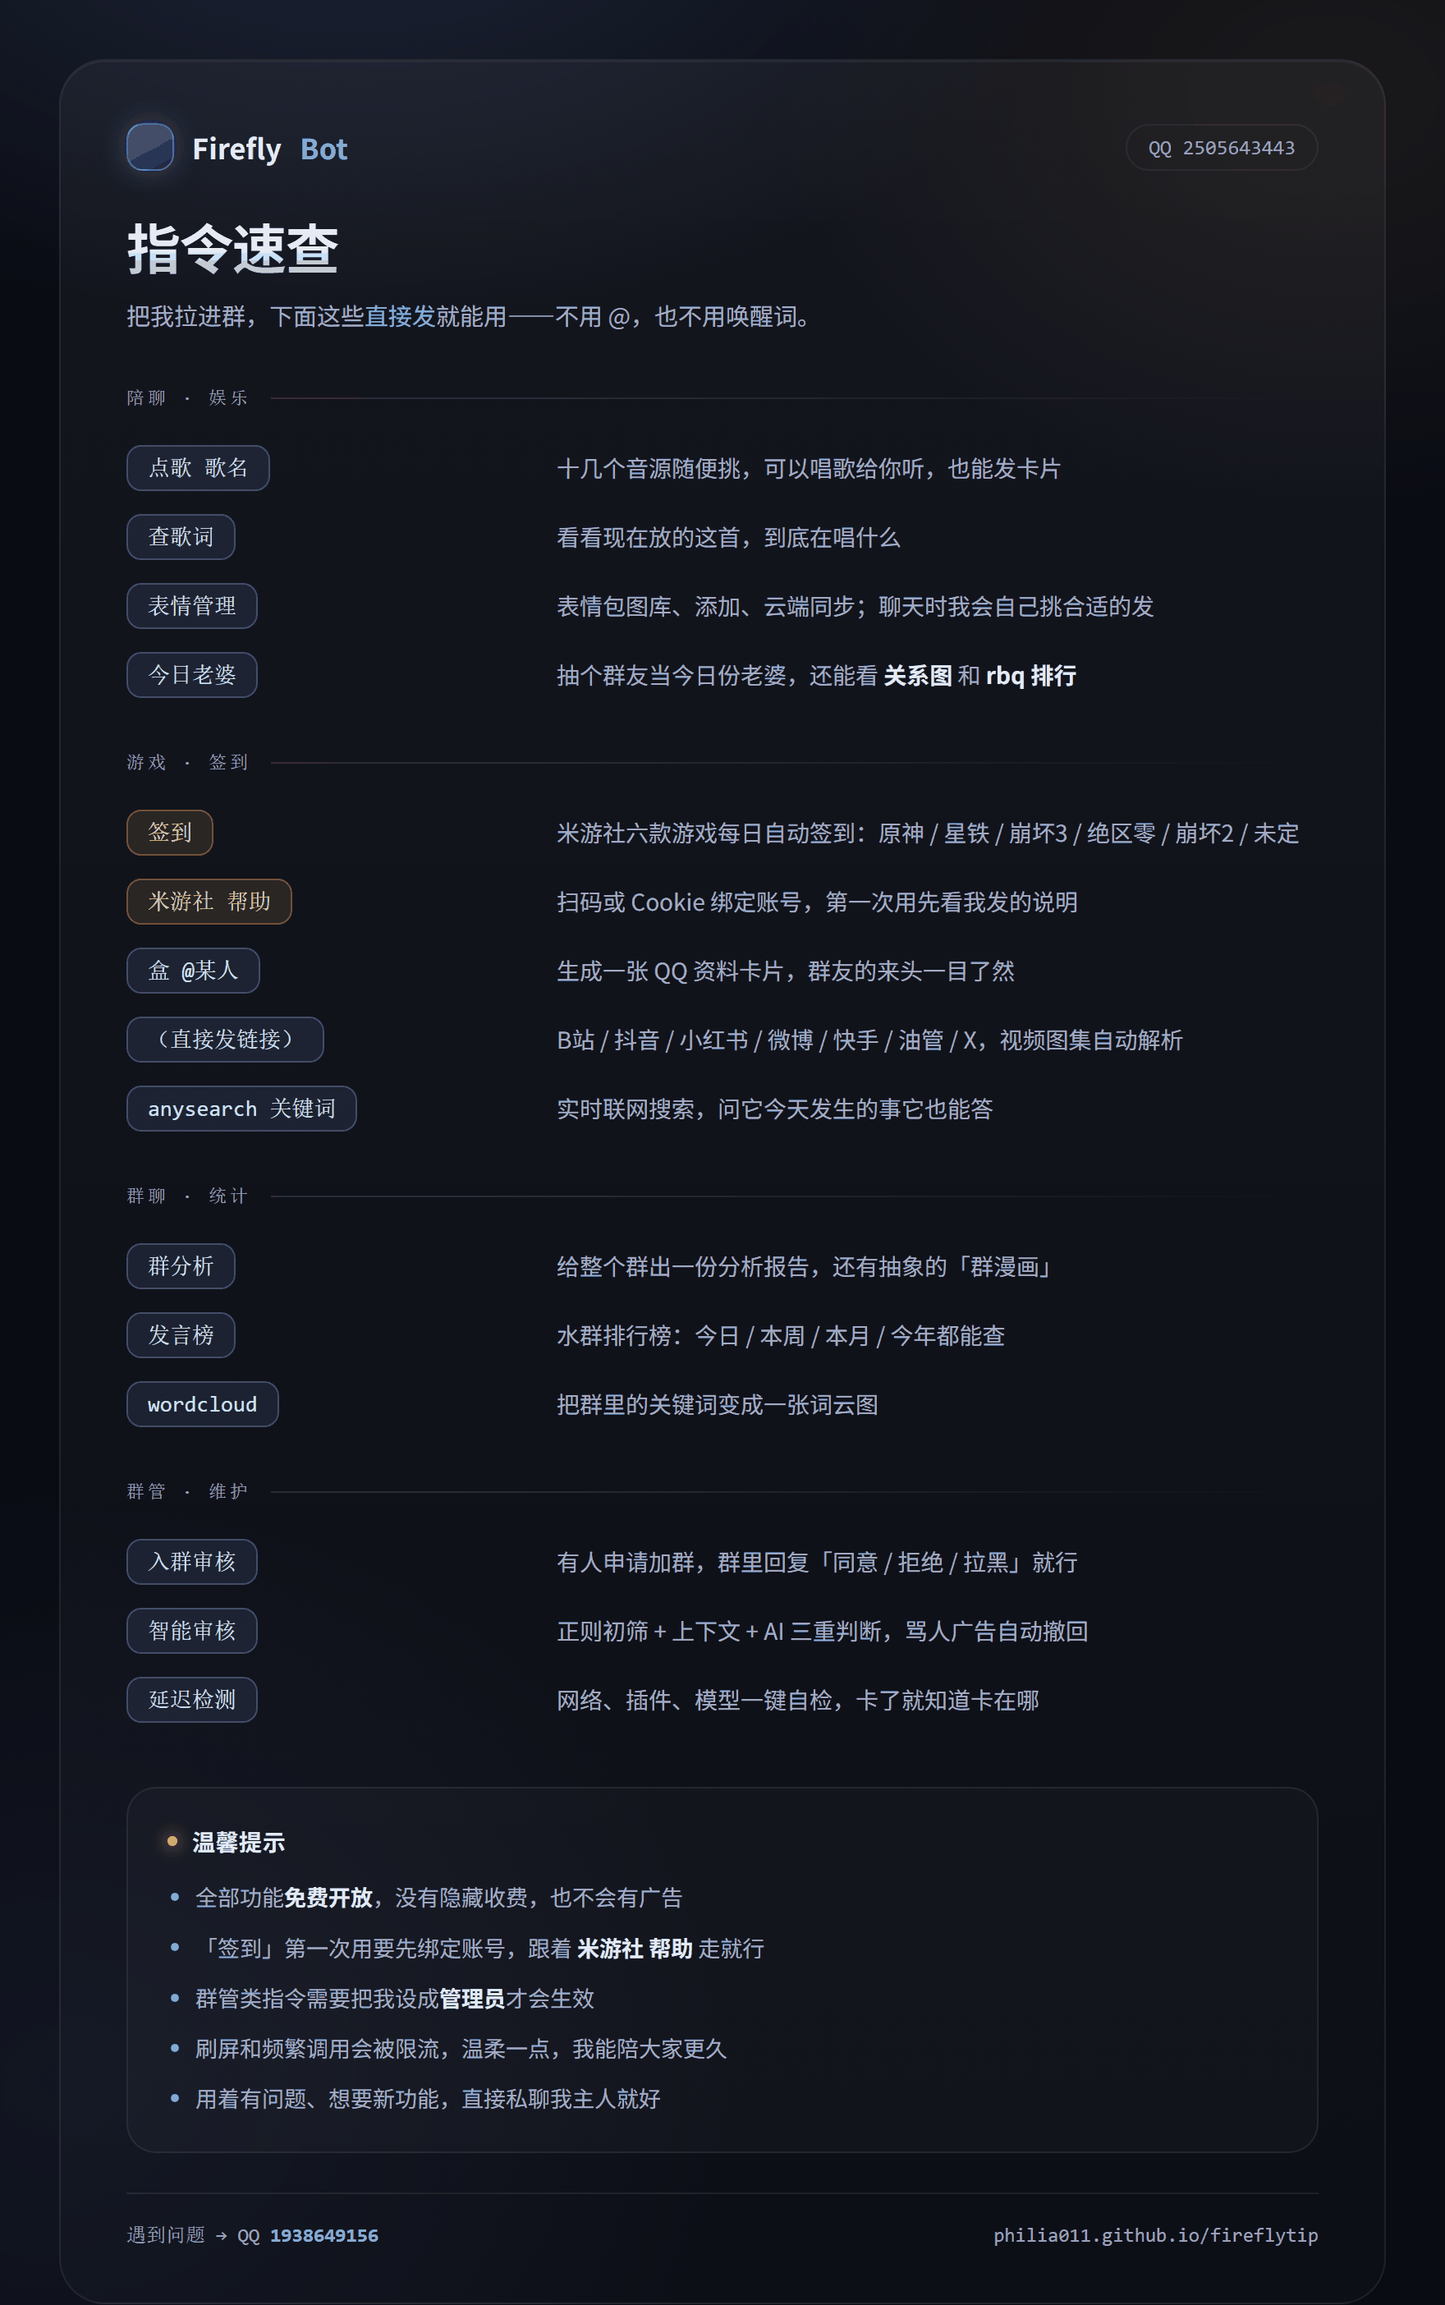
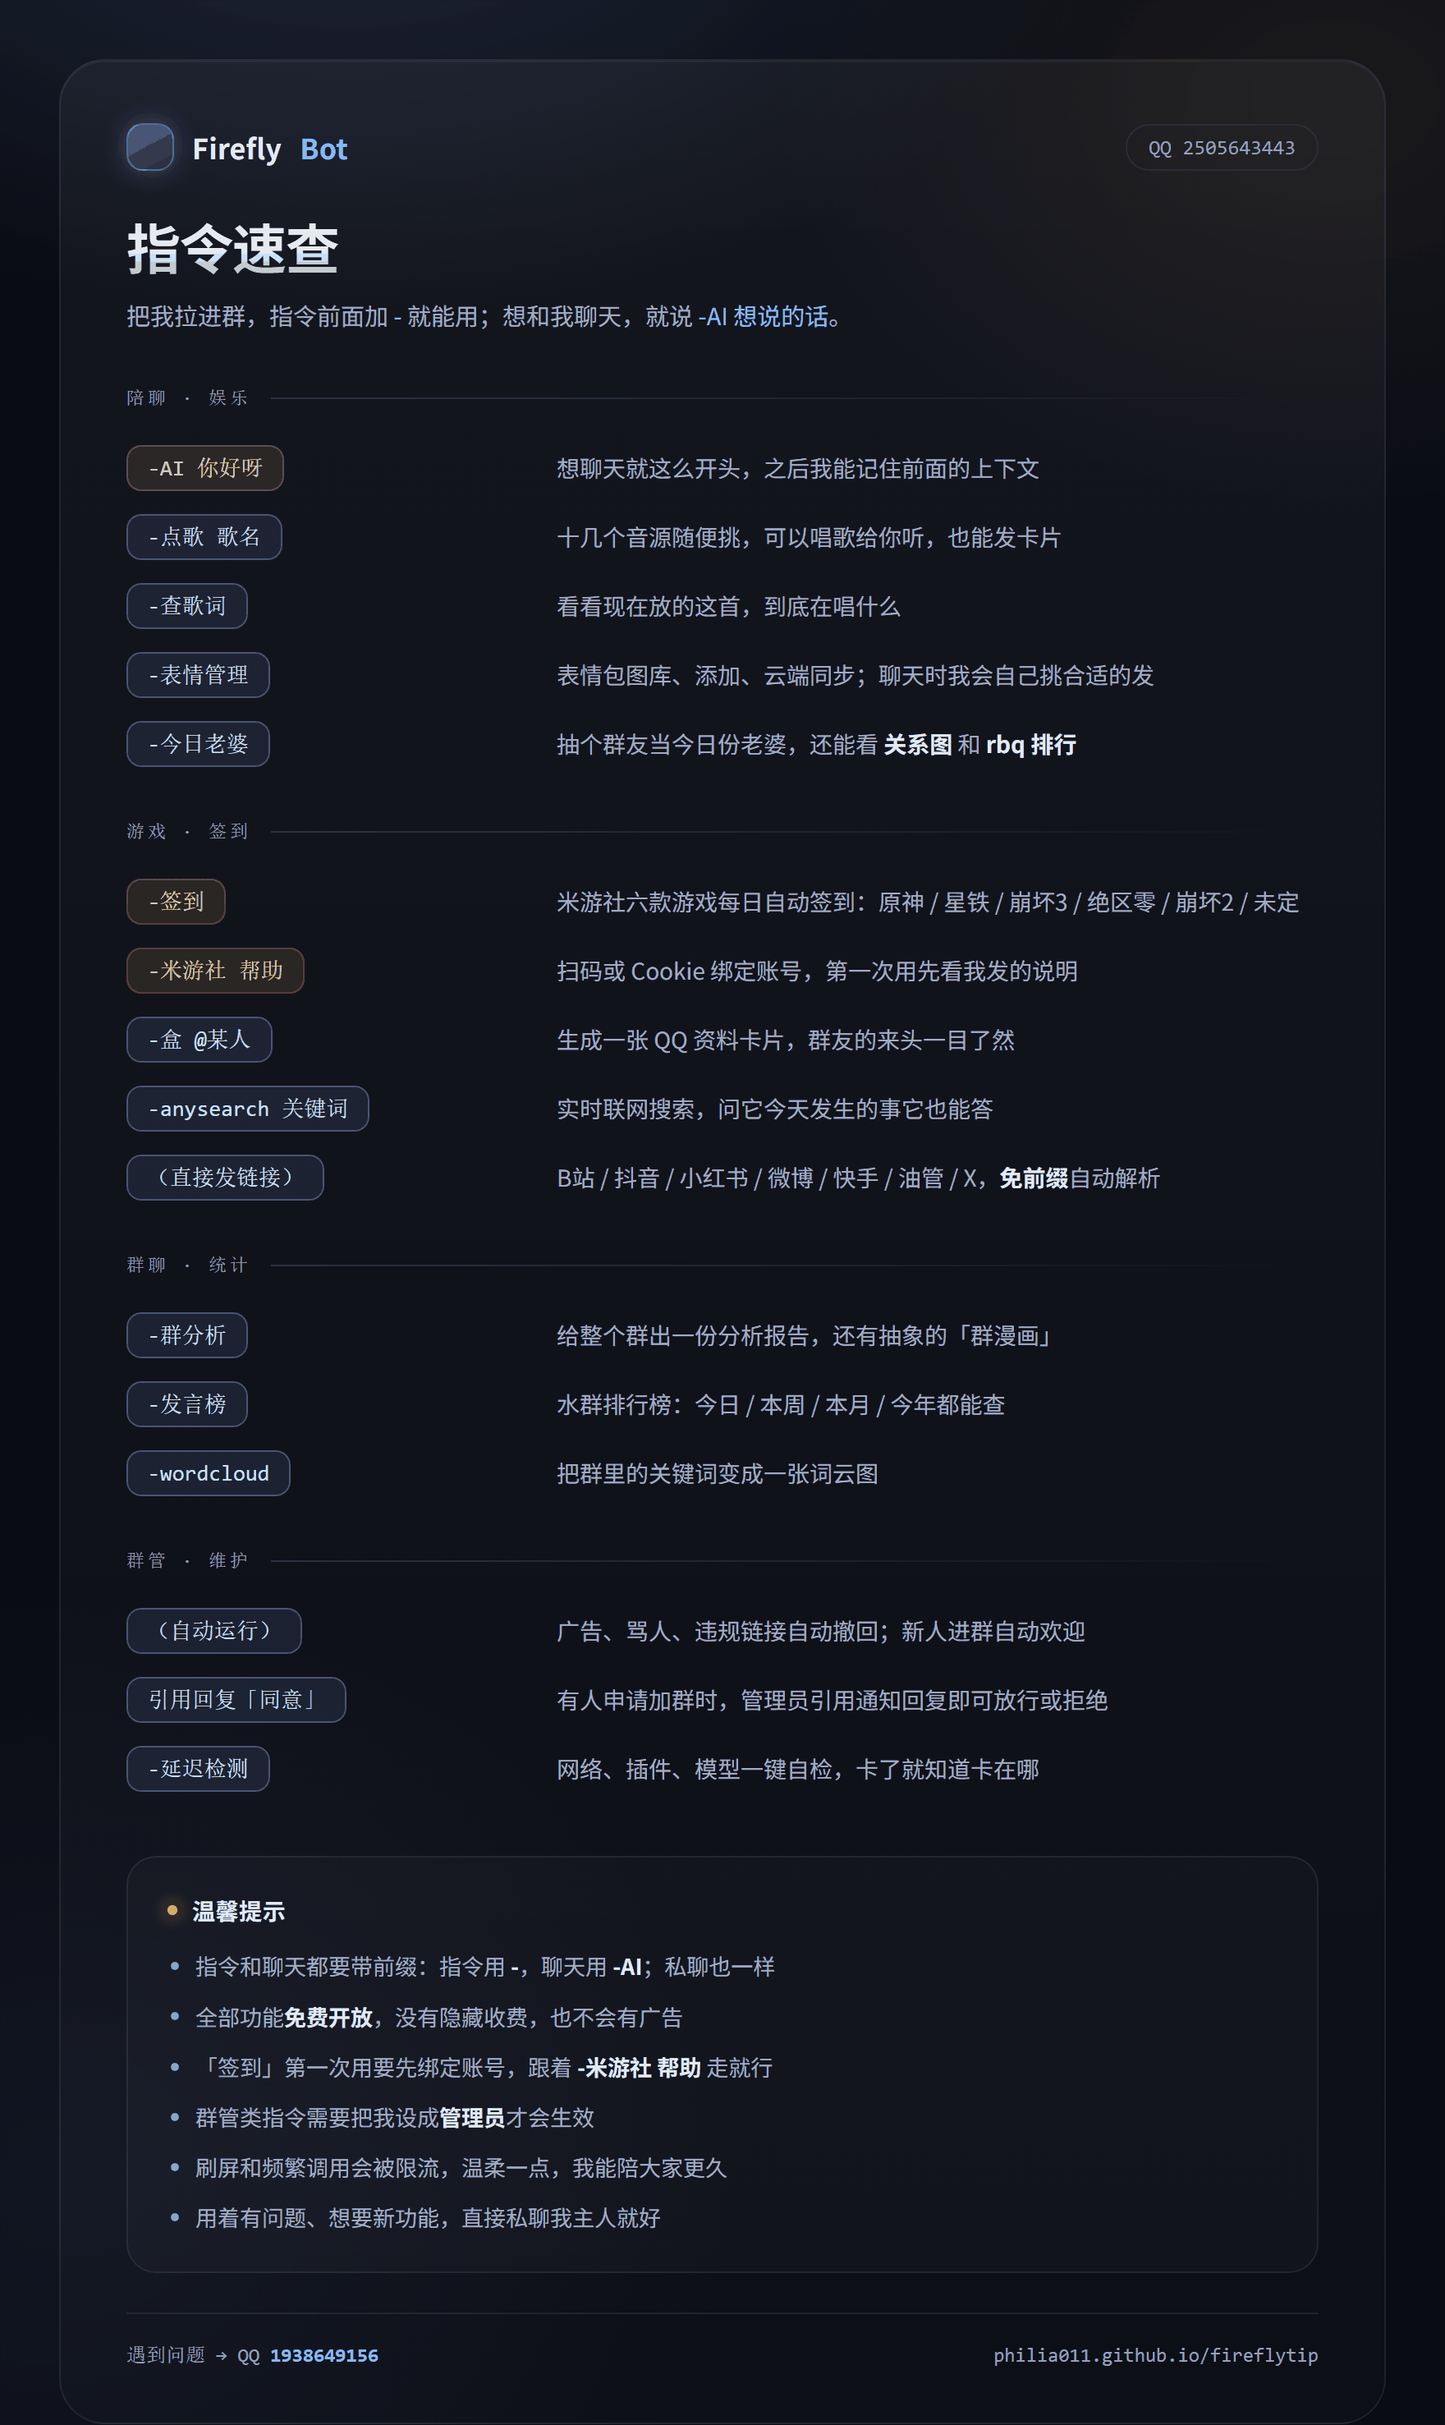
fix: 补上真实的触发前缀（指令 -、聊天 -AI）
之前误写成「不用唤醒词」，实际配置是 wake_prefix='-'、
provider_settings.wake_prefix='AI'，标准指令与主模型都会校验前缀。
- 帮助图：所有指令补上 - 前缀，新增 -AI 聊天说明，温馨提示补充前缀规则
- 页面：三步上手、指令标签、温馨提示同步修正；免前缀的自动项（链接解析、
  审核、欢迎语）单独标注

diff --git a/index.html b/index.html
@@ -680,7 +680,7 @@
     <div class="guide" data-reveal data-anim="panel">
       <div class="g-media" data-reveal data-anim="unfold" style="--d:150ms">
         <a href="assets/help.png" target="_blank" rel="noopener" title="点开查看原图">
-          <img src="assets/help.png" width="880" height="1403" loading="lazy" decoding="async"
+          <img src="assets/help.png" width="880" height="1477" loading="lazy" decoding="async"
                alt="FireflyBot 指令速查图：点歌、米游社签到、链接解析、群分析与群管等常用指令，以及温馨提示">
           <span class="zoom">点开看大图 ↗</span>
         </a>
@@ -692,18 +692,19 @@
           <h3>三步上手</h3>
           <ul class="steps">
             <li><span class="n">1</span><span>扫上面的二维码加我好友，把我拉进你的群。</span></li>
-            <li><span class="n">2</span><span>在群里直接发指令，<b>不用 @ 我，也不用唤醒词</b>。</span></li>
-            <li><span class="n">3</span><span>想签到就先发一次 <b>米游社 帮助</b>，跟着说明绑定账号。</span></li>
+            <li><span class="n">2</span><span>指令前面要加 <b>-</b>，比如 <b>-签到</b>；想和我聊天就说 <b>-AI 你好</b>。</span></li>
+            <li><span class="n">3</span><span>想签到就发一次 <b>-米游社 帮助</b>，跟着说明绑定账号。</span></li>
           </ul>
         </div>
 
         <div class="g-block warm" data-reveal data-anim="right" style="--d:330ms">
           <h3>温馨提示</h3>
           <ul class="tips-list">
+            <li>指令用 <b>-</b> 开头，聊天用 <b>-AI</b> 开头；私聊也要带前缀。</li>
+            <li>发链接不用前缀，<b>自动解析</b>；新人进群欢迎、违规审核也是自动的。</li>
             <li>全部功能<b>免费开放</b>，没有隐藏收费，也不会塞广告。</li>
             <li>群管类指令需要把我设成<b>管理员</b>才会生效。</li>
             <li>刷屏和频繁调用会被限流，<b>温柔一点</b>，我能陪大家更久。</li>
-            <li>用着有问题、想要新功能，直接找我主人就好。</li>
           </ul>
         </div>
 
@@ -728,26 +729,26 @@
         <div class="card" data-reveal>
           <div class="ico">💬</div>
           <h3>群聊 AI 陪聊</h3>
-          <p>拉进群就能聊，人设稳定不会聊着聊着跑偏；带提示词注入防护，几句话套不走设定。</p>
-          <span class="k">直接说话就行</span>
+          <p>用 <b>-AI</b> 开头就能聊，人设稳定、聊久了也不会跑偏；带提示词注入防护，几句话套不走设定。</p>
+          <span class="k">-AI 你好</span>
         </div>
         <div class="card" data-reveal>
           <div class="ico">🎵</div>
           <h3>点歌</h3>
           <p>十几个音源随便挑，可以发卡片，也能直接唱出来；想听什么发歌名就行。</p>
-          <span class="k">点歌 歌名</span>
+          <span class="k">-点歌 歌名</span>
         </div>
         <div class="card" data-reveal>
           <div class="ico">🖼</div>
           <h3>表情包</h3>
           <p>自带图库，聊天时会自己挑合适的发；支持语义检索、云端同步，也能自己往里加。</p>
-          <span class="k">表情管理</span>
+          <span class="k">-表情管理</span>
         </div>
         <div class="card" data-reveal>
           <div class="ico">👰</div>
           <h3>今日老婆</h3>
           <p>抽个群友当今日份老婆，还能看关系图、rbq 排行，以及强娶和求婚。</p>
-          <span class="k">今日老婆</span>
+          <span class="k">-今日老婆</span>
         </div>
       </div>
     </div>
@@ -759,25 +760,25 @@
           <div class="ico">✅</div>
           <h3>米游社自动签到</h3>
           <p>原神 / 星铁 / 崩坏3 / 绝区零 / 崩坏2 / 未定，绑定一次，以后每天自动签，奖励不漏领。</p>
-          <span class="k">签到 · 米游社 帮助</span>
+          <span class="k">-签到 · -米游社 帮助</span>
         </div>
         <div class="card" data-reveal>
           <div class="ico">🔗</div>
           <h3>万能解析</h3>
           <p>B站 / 抖音 / 小红书 / 微博 / 快手 / 油管 / X，链接发出来就自动解析成能直接看的样子。</p>
-          <span class="k">发链接即可</span>
+          <span class="k">发链接即可（免前缀）</span>
         </div>
         <div class="card" data-reveal>
           <div class="ico">🔍</div>
           <h3>实时联网搜索</h3>
           <p>不只靠记忆回答，问它今天发生的事也能查；还支持批量搜索和提取网页正文。</p>
-          <span class="k">anysearch 关键词</span>
+          <span class="k">-anysearch 关键词</span>
         </div>
         <div class="card" data-reveal>
           <div class="ico">🃏</div>
           <h3>QQ 资料卡片</h3>
           <p>一句话生成一张资料卡，群友的来头、群身份、地区一目了然。</p>
-          <span class="k">盒 @某人</span>
+          <span class="k">-盒 @某人</span>
         </div>
       </div>
     </div>
@@ -795,19 +796,19 @@
           <div class="ico">🚪</div>
           <h3>入群审核</h3>
           <p>有人申请加群，群里会收到一张申请人资料卡，回复「同意 / 拒绝 / 拉黑」就行。</p>
-          <span class="k">引用回复即可</span>
+          <span class="k">引用回复 同意 / 拒绝</span>
         </div>
         <div class="card" data-reveal>
           <div class="ico">📊</div>
           <h3>群分析 · 水群榜</h3>
           <p>给整个群出一份分析报告和群漫画，还有词云与发言榜，今日 / 本周 / 本月都能查。</p>
-          <span class="k">群分析 · 发言榜</span>
+          <span class="k">-群分析 · -发言榜</span>
         </div>
         <div class="card" data-reveal>
           <div class="ico">⏱</div>
           <h3>自检与监测</h3>
           <p>网络、插件、模型链路一键体检，卡了就知道卡在哪；还支持 B 站开播监测与群管指令集。</p>
-          <span class="k">延迟检测</span>
+          <span class="k">-延迟检测</span>
         </div>
       </div>
     </div>

diff --git a/tools/help-card.html b/tools/help-card.html
@@ -109,24 +109,28 @@
   </div>
 
   <h1>指令速查</h1>
-  <p class="sub">把我拉进群，下面这些<em>直接发</em>就能用——不用 @，也不用唤醒词。</p>
+  <p class="sub">把我拉进群，指令前面加 <em>-</em> 就能用；想和我聊天，就说 <em>-AI 想说的话</em>。</p>
 
   <div class="group">
     <div class="g-label"><span>陪聊 · 娱乐</span><i></i></div>
     <div class="row">
-      <div><span class="cmd">点歌 歌名</span></div>
+      <div><span class="cmd warm">-AI 你好呀</span></div>
+      <div class="desc">想聊天就这么开头，之后我能记住前面的上下文</div>
+    </div>
+    <div class="row">
+      <div><span class="cmd">-点歌 歌名</span></div>
       <div class="desc">十几个音源随便挑，可以唱歌给你听，也能发卡片</div>
     </div>
     <div class="row">
-      <div><span class="cmd">查歌词</span></div>
+      <div><span class="cmd">-查歌词</span></div>
       <div class="desc">看看现在放的这首，到底在唱什么</div>
     </div>
     <div class="row">
-      <div><span class="cmd">表情管理</span></div>
+      <div><span class="cmd">-表情管理</span></div>
       <div class="desc">表情包图库、添加、云端同步；聊天时我会自己挑合适的发</div>
     </div>
     <div class="row">
-      <div><span class="cmd">今日老婆</span></div>
+      <div><span class="cmd">-今日老婆</span></div>
       <div class="desc">抽个群友当今日份老婆，还能看 <b>关系图</b> 和 <b>rbq 排行</b></div>
     </div>
   </div>
@@ -134,39 +138,39 @@
   <div class="group">
     <div class="g-label"><span>游戏 · 签到</span><i></i></div>
     <div class="row">
-      <div><span class="cmd warm">签到</span></div>
+      <div><span class="cmd warm">-签到</span></div>
       <div class="desc">米游社六款游戏每日自动签到：原神 / 星铁 / 崩坏3 / 绝区零 / 崩坏2 / 未定</div>
     </div>
     <div class="row">
-      <div><span class="cmd warm">米游社 帮助</span></div>
+      <div><span class="cmd warm">-米游社 帮助</span></div>
       <div class="desc">扫码或 Cookie 绑定账号，第一次用先看我发的说明</div>
     </div>
     <div class="row">
-      <div><span class="cmd">盒 @某人</span></div>
+      <div><span class="cmd">-盒 @某人</span></div>
       <div class="desc">生成一张 QQ 资料卡片，群友的来头一目了然</div>
     </div>
     <div class="row">
-      <div><span class="cmd">（直接发链接）</span></div>
-      <div class="desc">B站 / 抖音 / 小红书 / 微博 / 快手 / 油管 / X，视频图集自动解析</div>
+      <div><span class="cmd">-anysearch 关键词</span></div>
+      <div class="desc">实时联网搜索，问它今天发生的事它也能答</div>
     </div>
     <div class="row">
-      <div><span class="cmd">anysearch 关键词</span></div>
-      <div class="desc">实时联网搜索，问它今天发生的事它也能答</div>
+      <div><span class="cmd">（直接发链接）</span></div>
+      <div class="desc">B站 / 抖音 / 小红书 / 微博 / 快手 / 油管 / X，<b>免前缀</b>自动解析</div>
     </div>
   </div>
 
   <div class="group">
     <div class="g-label"><span>群聊 · 统计</span><i></i></div>
     <div class="row">
-      <div><span class="cmd">群分析</span></div>
+      <div><span class="cmd">-群分析</span></div>
       <div class="desc">给整个群出一份分析报告，还有抽象的「群漫画」</div>
     </div>
     <div class="row">
-      <div><span class="cmd">发言榜</span></div>
+      <div><span class="cmd">-发言榜</span></div>
       <div class="desc">水群排行榜：今日 / 本周 / 本月 / 今年都能查</div>
     </div>
     <div class="row">
-      <div><span class="cmd">wordcloud</span></div>
+      <div><span class="cmd">-wordcloud</span></div>
       <div class="desc">把群里的关键词变成一张词云图</div>
     </div>
   </div>
@@ -174,15 +178,15 @@
   <div class="group">
     <div class="g-label"><span>群管 · 维护</span><i></i></div>
     <div class="row">
-      <div><span class="cmd">入群审核</span></div>
-      <div class="desc">有人申请加群，群里回复「同意 / 拒绝 / 拉黑」就行</div>
+      <div><span class="cmd">（自动运行）</span></div>
+      <div class="desc">广告、骂人、违规链接自动撤回；新人进群自动欢迎</div>
     </div>
     <div class="row">
-      <div><span class="cmd">智能审核</span></div>
-      <div class="desc">正则初筛 + 上下文 + AI 三重判断，骂人广告自动撤回</div>
+      <div><span class="cmd">引用回复「同意」</span></div>
+      <div class="desc">有人申请加群时，管理员引用通知回复即可放行或拒绝</div>
     </div>
     <div class="row">
-      <div><span class="cmd">延迟检测</span></div>
+      <div><span class="cmd">-延迟检测</span></div>
       <div class="desc">网络、插件、模型一键自检，卡了就知道卡在哪</div>
     </div>
   </div>
@@ -190,8 +194,9 @@
   <div class="tips">
     <h2>温馨提示</h2>
     <ul>
+      <li>指令和聊天都要带前缀：指令用 <b>-</b>，聊天用 <b>-AI</b>；私聊也一样</li>
       <li>全部功能<b>免费开放</b>，没有隐藏收费，也不会有广告</li>
-      <li>「签到」第一次用要先绑定账号，跟着 <b>米游社 帮助</b> 走就行</li>
+      <li>「签到」第一次用要先绑定账号，跟着 <b>-米游社 帮助</b> 走就行</li>
       <li>群管类指令需要把我设成<b>管理员</b>才会生效</li>
       <li>刷屏和频繁调用会被限流，温柔一点，我能陪大家更久</li>
       <li>用着有问题、想要新功能，直接私聊我主人就好</li>

diff --git a/README.md b/README.md
@@ -29,6 +29,9 @@ python tools/build-help.py
 
 脚本会用本机的 Edge / Chrome 无头模式渲染，再自动裁掉底部空白并压缩成 256 色 PNG。
 
+> 图里的前缀（指令用 `-`、聊天用 `-AI`）对应 AstrBot 配置里的
+> `wake_prefix` 和 `provider_settings.wake_prefix`。改了配置记得同步这张图和页面文案。
+
 ## 🖼 放入图片
 
 把三张二维码图片，按上面的**文件名**放到 `assets/` 目录下即可：
